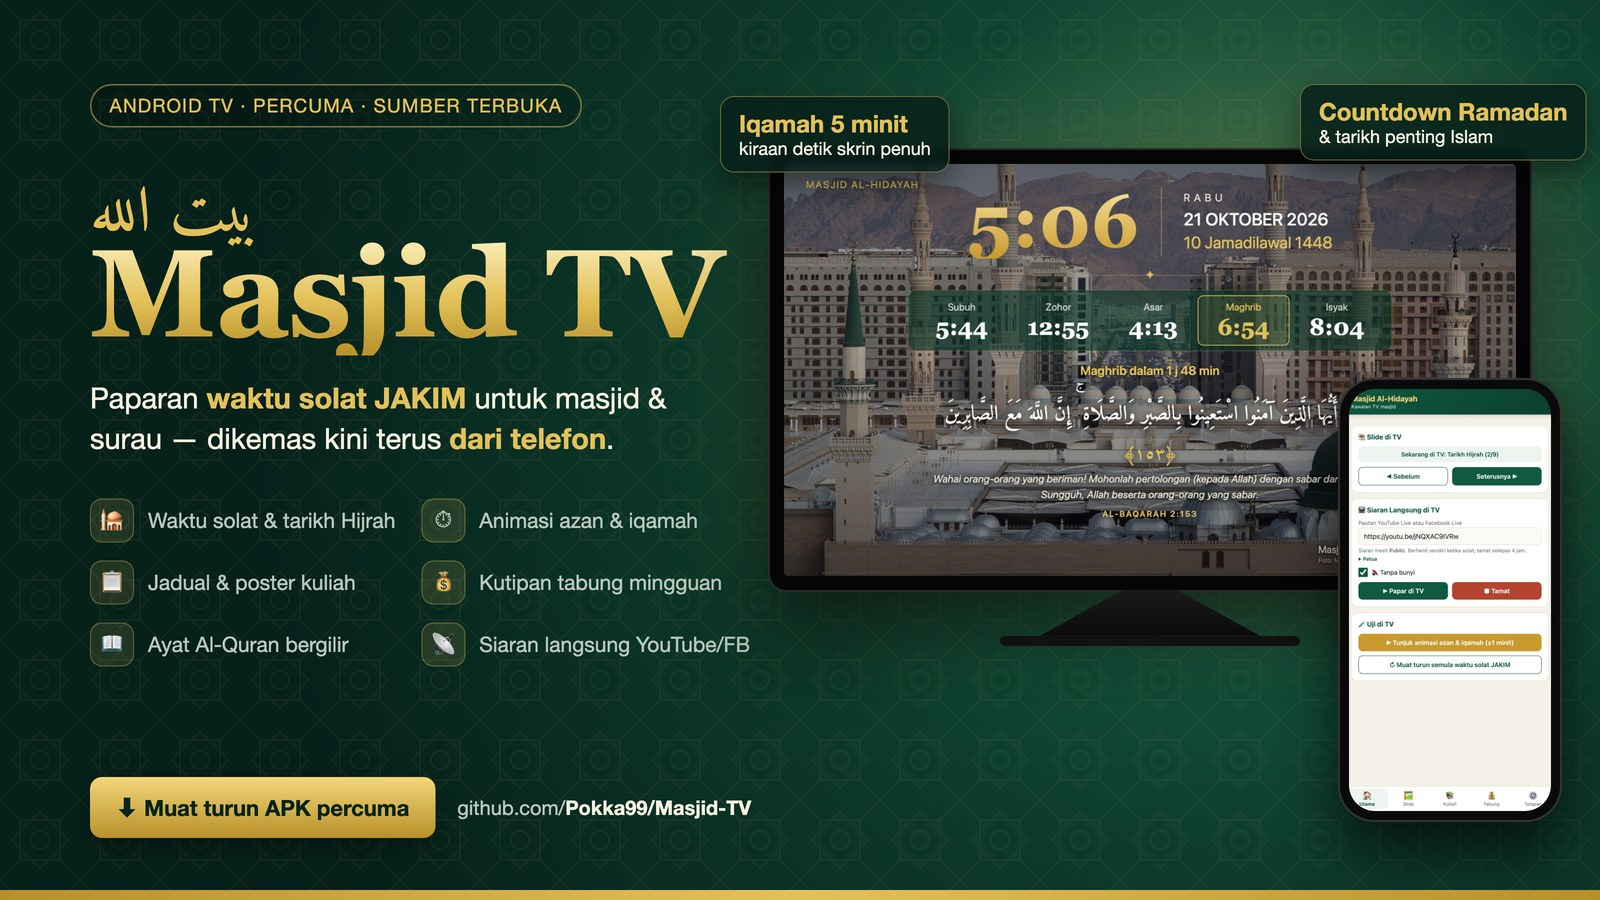
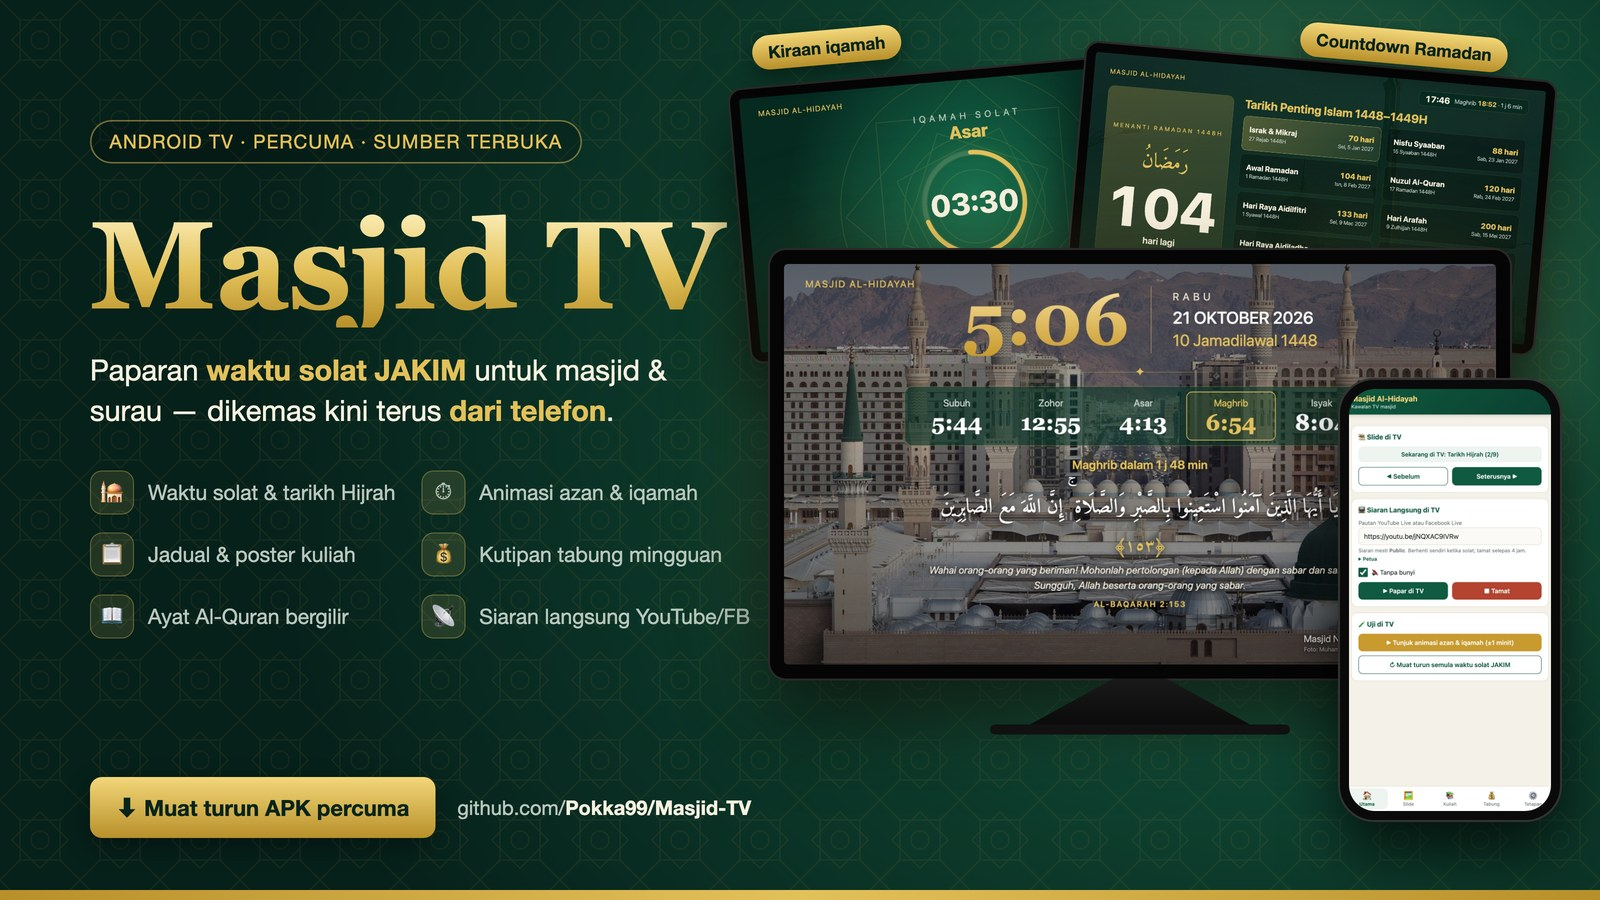
Poster: buang tulisan Arab, tambah skrin iqamah dan countdown Ramadan

diff --git a/docs/poster/poster.html b/docs/poster/poster.html
@@ -2,7 +2,6 @@
 <html lang="ms"><head><meta charset="utf-8">
 <!-- Poster README. Render: Chrome headless 1600x900 -> docs/poster.jpg -->
 <style>
-@font-face{font-family:Amiri;src:url(../../app/src/main/assets/fonts/AmiriQuran.ttf)}
 :root{--gold:#e3c15a;--gold2:#b8902a;--text:#f6f1e1;--mute:#b9c8bf;--hi:#1f7a5a}
 *{box-sizing:border-box;margin:0}
 html,body{width:1600px;height:900px;overflow:hidden}
@@ -12,11 +11,10 @@ body{font-family:-apple-system,"Helvetica Neue",Arial,sans-serif;color:var(--tex
 .glow{position:absolute;width:900px;height:900px;right:-120px;top:-140px;border-radius:50%;
   background:radial-gradient(circle,rgba(227,193,90,.22),transparent 60%)}
 .arch{position:absolute;left:0;right:0;bottom:0;height:10px;background:linear-gradient(90deg,var(--gold2),var(--gold),var(--gold2))}
-.left{position:absolute;left:90px;top:84px;width:640px}
+.left{position:absolute;left:90px;top:120px;width:640px}
 .badge{display:inline-flex;gap:10px;align-items:center;font-size:19px;letter-spacing:.06em;text-transform:uppercase;
   color:var(--gold);border:1.5px solid rgba(227,193,90,.5);padding:9px 18px;border-radius:40px;background:rgba(0,0,0,.18)}
-.ar{font-family:Amiri;font-size:64px;color:var(--gold);line-height:1;margin:34px 0 0;direction:rtl;text-align:left}
-h1{font-family:Georgia,"Times New Roman",serif;font-size:124px;line-height:1;font-weight:700;letter-spacing:-.01em;margin-top:6px;
+h1{font-family:Georgia,"Times New Roman",serif;font-size:124px;line-height:1;font-weight:700;letter-spacing:-.01em;margin-top:40px;
   background:linear-gradient(180deg,#fff3c4,var(--gold) 55%,var(--gold2));-webkit-background-clip:text;color:transparent}
 .tag{font-size:29px;line-height:1.4;color:var(--text);margin-top:22px;max-width:600px}
 .tag b{color:var(--gold);font-weight:600}
@@ -29,20 +27,22 @@ h1{font-family:Georgia,"Times New Roman",serif;font-size:124px;line-height:1;fon
   box-shadow:0 8px 24px rgba(0,0,0,.35)}
 .by{font-size:20px;color:var(--mute)} .by b{color:var(--text)}
 /* TV */
-.tv{position:absolute;left:770px;top:150px;width:760px}
+.tv{position:absolute;left:770px;top:250px;width:740px}
 .scr{background:#050505;padding:14px;border-radius:16px;box-shadow:0 0 0 2px #2a2a2a,0 40px 80px rgba(0,0,0,.6),0 0 120px rgba(227,193,90,.15)}
 .scr img{display:block;width:100%;border-radius:4px}
 .stand{width:220px;height:46px;margin:0 auto;background:linear-gradient(#1a1a1a,#0b0b0b);clip-path:polygon(38% 0,62% 0,100% 100%,0 100%)}
 .base{width:300px;height:10px;margin:0 auto;border-radius:6px;background:#111}
+/* two screens fanned out behind the TV */
+.back{position:absolute;width:470px;background:#050505;padding:9px;border-radius:12px;box-shadow:0 0 0 2px #2a2a2a,0 30px 60px rgba(0,0,0,.6)}
+.back img{display:block;width:100%;border-radius:3px}
+.pill{position:absolute;z-index:1;white-space:nowrap;font-size:17px;font-weight:700;color:#08241b;padding:7px 16px;border-radius:30px;
+  background:linear-gradient(180deg,#f3d77a,var(--gold2));box-shadow:0 8px 20px rgba(0,0,0,.4)}
 /* phone */
 .ph{position:absolute;left:1340px;top:380px;width:220px;height:440px;border-radius:34px;background:#0a0a0a;padding:9px;
   box-shadow:0 0 0 2px #333,0 30px 60px rgba(0,0,0,.7)}
 .ph img{width:100%;height:100%;object-fit:cover;object-position:top;border-radius:26px;display:block}
 .wifi{position:absolute;left:1240px;top:560px;font-size:15px;color:var(--gold);letter-spacing:.08em;text-transform:uppercase;
   transform:rotate(-90deg);transform-origin:left top;opacity:.85}
-.chip{position:absolute;background:rgba(6,32,26,.85);border:1px solid rgba(227,193,90,.45);border-radius:14px;padding:12px 18px;
-  font-size:18px;box-shadow:0 12px 30px rgba(0,0,0,.45);backdrop-filter:blur(4px)}
-.chip b{color:var(--gold);display:block;font-size:24px}
 </style></head><body>
 <svg class="pat" width="1600" height="900"><defs><pattern id="p" width="80" height="80" patternUnits="userSpaceOnUse">
 <g fill="none" stroke="#e3c15a" stroke-width="1.4"><rect x="20" y="20" width="40" height="40"/><rect x="20" y="20" width="40" height="40" transform="rotate(45 40 40)"/>
@@ -52,7 +52,6 @@ h1{font-family:Georgia,"Times New Roman",serif;font-size:124px;line-height:1;fon
 
 <div class="left">
   <span class="badge">Android TV · Percuma · Sumber terbuka</span>
-  <div class="ar">بيت الله</div>
   <h1>Masjid TV</h1>
   <p class="tag">Paparan <b>waktu solat JAKIM</b> untuk masjid &amp; surau — dikemas kini terus <b>dari telefon</b>.</p>
   <div class="feat">
@@ -69,12 +68,14 @@ h1{font-family:Georgia,"Times New Roman",serif;font-size:124px;line-height:1;fon
   <span class="by">github.com/<b>Pokka99/Masjid-TV</b></span>
 </div>
 
+<div class="back" style="left:740px;top:70px;transform:rotate(-5deg)"><img src="../screenshots/09-iqamah.jpg"></div>
+<div class="back" style="left:1075px;top:62px;transform:rotate(5deg)"><img src="../screenshots/14-tarikh-islam.jpg"></div>
+<div class="pill" style="left:752px;top:30px;transform:rotate(-5deg)">Kiraan iqamah</div>
+<div class="pill" style="left:1300px;top:30px;transform:rotate(5deg)">Countdown Ramadan</div>
 <div class="tv">
   <div class="scr"><img src="../screenshots/01-gambar.jpg"></div>
   <div class="stand"></div><div class="base"></div>
 </div>
-<div class="chip" style="left:720px;top:96px"><b>Iqamah 5 minit</b>kiraan detik skrin penuh</div>
-<div class="chip" style="left:1300px;top:84px"><b>Countdown Ramadan</b>&amp; tarikh penting Islam</div>
 <div class="ph"><img src="../screenshots/13-telefon.jpg"></div>
 <div class="arch"></div>
 </body></html>
